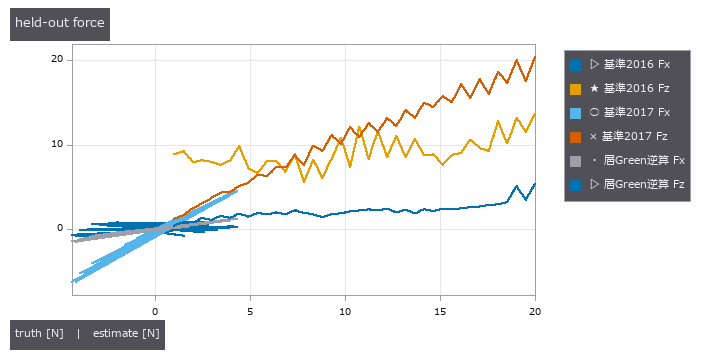
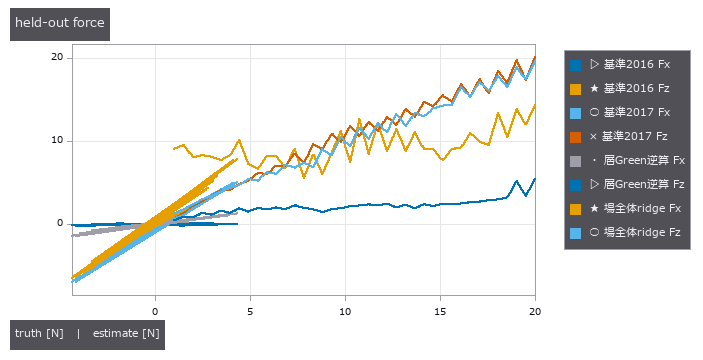
Add full-field ridge FingerVision estimator

diff --git a/examples/poc_fingervision_benchmark.py b/examples/poc_fingervision_benchmark.py
@@ -1,5 +1,5 @@
 # Copyright (c) 2026 Kazufumi Furuse. Licensed under the Apache License, Version 2.0 (see LICENSE).
-"""FingerVision 公開式2版とGreen関数逆算を、独立した物理合成像で比較する。
+"""FingerVision 公開式2版、Green逆算、場全体ridgeを独立した物理合成像で比較する。
 
 外部: Yamaguchi & Atkeson (Humanoids 2016/2017) の式、Johnson (1985)
 §3, §7.2、既存 tacsim/tacslip。自作: 4 mm XP-565相当接着層の選択的
@@ -51,11 +51,17 @@ def physics_validation():
 
 def evaluate(full=False):
     t0=time.perf_counter(); ref=F.synthesize(F.Truth((0,0,0)),seed=1)
-    # 較正: 中心、半径12 mm、2--14 N。評価は半径9/16 mm、偏心、1--20 N。
+    # 較正: 半径11/13 mm、複数偏心、2--14 N。評価は未見の半径9/16 mm、
+    # 未見の偏心(3,-2)と力範囲1--20 N。全手法へ同じ較正像を渡す。
     cal=[]
-    for i,p in enumerate(np.linspace(2,14,14)):
-        for fx,fy in ((0,0),(.18*p,0),(0,-.14*p)):
-            tr=F.Truth((fx,fy,p)); cal.append((F.synthesize(tr,seed=10+i),tr.force_N,0.))
+    cal_pos=((-2.,0.),(2.,1.),(0.,-2.))
+    for i,p in enumerate(np.linspace(2,14,10)):
+        for j,(fx,fy) in enumerate(((0,0),(.18*p,0),(-.18*p,0),(0,.14*p),(0,-.14*p))):
+            tr=F.Truth((fx,fy,p),contact_xy_mm=cal_pos[(i+j)%3],indenter_radius_mm=11 if (i+j)%2 else 13)
+            cal.append((F.synthesize(tr,seed=10+i*5+j),tr.force_N,0.))
+    for i,tau in enumerate(np.linspace(-.003,.003,6)):
+        tr=F.Truth((0,0,8),torque_Nm=float(tau),contact_xy_mm=cal_pos[i%3],indenter_radius_mm=12)
+        cal.append((F.synthesize(tr,seed=1000+i),tr.force_N,tr.torque_Nm))
     c=F.calibrate(cal,ref)
     slip_cal=[]
     for case in range(6):
@@ -68,7 +74,8 @@ def evaluate(full=False):
     for i,p in enumerate(np.linspace(1,20,40 if full else 16)):
         tr=F.Truth(((-1)**i*.22*p, .16*p, p),contact_xy_mm=(3,-2),indenter_radius_mm=9 if i%2 else 16)
         ev.append((tr,F.synthesize(tr,seed=100+i)))
-    methods=(F.read_baseline2016,F.read_baseline2017,F.read_tactile); names=("基準2016","基準2017","層Green逆算")
+    methods=(F.read_baseline2016,F.read_baseline2017,F.read_tactile,F.read_field_ridge)
+    names=("基準2016","基準2017","層Green逆算","場全体ridge")
     def force_set(rows):
         truth=np.asarray([x[1] for x in rows]); pred=[]
         for fn in methods:
@@ -80,13 +87,20 @@ def evaluate(full=False):
     for name,pc,pe in zip(names,cal_pred,ev_pred):
         force[name]={"cal_rmse":[_score_rmse(pc[:,j],cal_truth[:,j]) for j in range(3)],"cal_r2":[r2(cal_truth[:,j],pc[:,j]) for j in range(3)],
                      "eval_rmse":[_score_rmse(pe[:,j],ev_truth[:,j]) for j in range(3)],"eval_r2":[r2(ev_truth[:,j],pe[:,j]) for j in range(3)]}
+    torque_truth=np.linspace(-.003,.003,len(ev)); torque={"基準2016":"—","基準2017":"—"}
+    for name,fn in zip(names[2:],methods[2:]):
+        pred=[]
+        for i,(tr,_) in enumerate(ev):
+            tt=F.Truth(tr.force_N,torque_Nm=float(torque_truth[i]),contact_xy_mm=tr.contact_xy_mm,indenter_radius_mm=tr.indenter_radius_mm)
+            pred.append(fn(F.synthesize(tt,seed=1500+i),clone(c))["torque"])
+        torque[name]={"rmse_Nm":_score_rmse(pred,torque_truth),"r2":r2(torque_truth,pred)}
     conditions=(("明","bright",1,False,False),("黒","black",1,False,False),("肌色","skin",1,False,False),
                 ("背景移動","bright",1,False,True),("暗所","bright",.10,False,False),("非滑り変形","bright",1,True,False))
-    cases=25 if full else 4; slip_rows=[]; delays=[[] for _ in methods]; leads=[]
+    cases=25 if full else 4; slip_rows=[]; delays=[[] for _ in methods]; leads=[[],[]]
     for ci,(label,color,bright,deform,moving) in enumerate(conditions):
         yy=[[] for _ in methods]; pp=[[] for _ in methods]
         for case in range(cases):
-            states=[clone(c) for _ in methods]; first=[None]*3; precursor=None
+            states=[clone(c) for _ in methods]; first=[None]*len(methods); precursor=[None,None]
             P=6+8*(case/max(cases-1,1)); onset=4
             for k,q in enumerate(np.linspace(0,1.25*F.MU*P,8)):
                 slip=(q>=F.MU*P) and not deform
@@ -95,15 +109,30 @@ def evaluate(full=False):
                 for m,fn in enumerate(methods):
                     out=fn(im,states[m]); yy[m].append(slip); pp[m].append(out["slip"])
                     if out["slip"] and first[m] is None: first[m]=k
-                    if m==2 and out.get("slip_precursor") and precursor is None: precursor=k
-            for m in range(3): delays[m].append(1000*(first[m]-onset)/F.FPS if first[m] is not None else math.nan)
-            if precursor is not None: leads.append(1000*(onset-precursor)/F.FPS)
-        vals=[f1_ci(yy[m],pp[m]) for m in range(3)]; slip_rows.append((label,*vals))
+                    if m>=2 and out.get("slip_precursor") and precursor[m-2] is None: precursor[m-2]=k
+            for m in range(len(methods)): delays[m].append(1000*(first[m]-onset)/F.FPS if first[m] is not None else math.nan)
+            for m,x in enumerate(precursor):
+                if x is not None: leads[m].append(1000*(onset-x)/F.FPS)
+        vals=[f1_ci(yy[m],pp[m]) for m in range(len(methods))]; slip_rows.append((label,*vals))
     # 回転は画像の同じ組を三手法へ渡す。
     angles=np.linspace(-10,10,11); rot=[None,None]
-    for fn in methods[2:]:
+    for fn in methods[2:3]:
         pred=[fn(F.synthesize(F.Truth((0,0,8),angle_deg=float(a)),seed=900+i),clone(c))["angle_deg"] for i,a in enumerate(angles)]
         rot.append(_score_rmse(pred,angles))
+    rot.append(None)  # ridge はトルクを出すが物体角度は出さない
+    # 黒ビーズと背景のMichelson contrastを直接測り、追跡成立境界を掃引する。
+    contrast=[]
+    for color in ("bright","skin","black"):
+        for bright in np.linspace(.02,1,20):
+            im=F.synthesize(F.Truth((1,0,8)),color=color,brightness=float(bright),seed=77)
+            g=im.mean(2); hi=float(np.percentile(g,80)); lo=float(np.percentile(g,2))
+            con=(hi-lo)/max(hi+lo,1e-9); matched=F._track(im,c)["matched"]
+            contrast.append((color,float(bright),con,matched))
+    contrast_boundary={}
+    for color in ("bright","skin","black"):
+        good=[x[2] for x in contrast if x[0]==color and x[3]>=6]
+        bad=[x[2] for x in contrast if x[0]==color and x[3]<6]
+        contrast_boundary[color]=(min(good) if good else None,max(bad) if bad else None)
     physical,conv,theory_ratio=physics_validation()
     print("半空間比（nu, 層/半空間 横最大, 縦中心, 層横m, 層縦m）")
     for row in physical: print(row)
@@ -113,11 +142,20 @@ def evaluate(full=False):
     print("method       calibration                         evaluation")
     for n in names:
         x=force[n]; print(f"{n:10s} {x['cal_rmse']} / {x['cal_r2']}   {x['eval_rmse']} / {x['eval_r2']}")
+    print("ridge（較正内CVのみ）",c.ridge_cv_rmse,"選択",c.ridge_selected,"lambda",c.ridge_lambda)
+    for variant in ("raw","green-pca"):
+        pe=np.asarray([F.read_field_ridge(im,clone(c),variant)["force_N"] for _,im in ev])
+        print("ridge変種",variant,"評価RMSE",[_score_rmse(pe[:,j],ev_truth[:,j]) for j in range(3)])
+    print("トルク（評価RMSE N m / R2）",torque)
     print("滑り F1 [Wilson 95% CI]")
     for row in slip_rows: print(row[0],*[f"{v[0]:.3f}[{v[1]:.3f},{v[2]:.3f}]" for v in row[1:]])
-    print("遅れ中央値ms",[float(np.nanmedian(x)) if np.isfinite(x).any() else None for x in delays],"前兆先行ms",float(np.median(leads)) if leads else None)
+    print("遅れ中央値ms",[float(np.nanmedian(x)) if np.isfinite(x).any() else None for x in delays],
+          "前兆先行ms（固着域, 力比）",[float(np.median(x)) if x else None for x in leads])
     print("回転RMSE deg",{n:("—" if v is None else v) for n,v in zip(names,rot)})
-    print("負け条件: 層Green逆算は暗所/マーカー消失、ヒステリシス、剥離、未知のビーズ深さで不利。Taxim外部FEMデータなし。")
+    print("コントラスト境界（追跡可の最小, 不可の最大）",contrast_boundary)
+    print("黒い物・暗所: 黒ビーズと黒背景の輝度差が消えると、公開法も提案法も同じ追跡入力を失い原理的に読めない。")
+    print("改善案（白ビーズ・内部照明・縁取り）は光学模型を追加していないため未試験。")
+    print("負け条件: 提案法は暗所/マーカー消失、ヒステリシス、剥離、未知のビーズ深さで不利。Taxim外部FEMデータなし。")
     print("画像再現度: 実画像が無いためTaximのSSIM/PSNRとは比較しない。")
     if figs.enabled():
         figs.save_grid("fvbench_sensor_examples",[ref,ev[-1][1]],ncols=2,captions=["reference","unseen radius/offset"],caption="22 mm等距離魚眼、物理順方向。")
@@ -129,7 +167,15 @@ def evaluate(full=False):
         figs.save_table("fvbench_layer_physics",["nu","ur layer/half","uz layer/half","ur layer [um]","uz layer [um]"],
                         [[f"{x[0]:.3f}",f"{x[1]:.3f}",f"{x[2]:.3f}",f"{1e6*x[3]:.2f}",f"{1e6*x[4]:.2f}"] for x in physical],
                         title="4 mm bonded layer versus half-space",caption="1 N, a=6 mm; selective reduced integration Q4 FEM.")
-    return {"force":force,"slip":slip_rows,"delays":delays,"rotation":rot,"physics":physical,"convergence":conv,"theory_ratio":theory_ratio,"elapsed_s":time.perf_counter()-t0,"n_per_condition":cases*8}
+        figs.save("fvbench_contrast_boundary",figs.render_plot([(x[0],np.asarray([r[2] for r in contrast if r[0]==x[0]]),np.asarray([r[3] for r in contrast if r[0]==x[0]])) for x in (("bright",),("skin",),("black",))],xlabel="Michelson contrast",ylabel="matched markers",title="visibility boundary"),caption="6 markers未満では全変位場手法が推定不能。")
+        force_rows=[]
+        for split in ("cal","eval"):
+            for metric in ("rmse","r2"):
+                for axis_i,axis in enumerate(("Fx","Fy","Fz")):
+                    force_rows.append([f"{split} {axis} {metric}",*[f"{force[n][split+'_'+metric][axis_i]:.3f}" for n in names]])
+        figs.save_table("fvbench_force_metrics",["metric",*names],force_rows,
+                        title="Force calibration and held-out evaluation",caption="RMSE [N] / R2。ridgeのlambdaは較正内CVのみで選択。")
+    return {"force":force,"torque":torque,"slip":slip_rows,"delays":delays,"rotation":rot,"physics":physical,"convergence":conv,"theory_ratio":theory_ratio,"contrast_boundary":contrast_boundary,"elapsed_s":time.perf_counter()-t0,"n_per_condition":cases*8}
 
 
 if __name__=="__main__":

diff --git a/fvbench.py b/fvbench.py
@@ -54,6 +54,11 @@ class Calibration:
     slip_threshold2016: float = 900.0
     slip_threshold2017: float = 900.0
     proposed_ca_threshold: float = .12
+    ridge_models: dict = field(default_factory=dict)
+    ridge_selected: str = "raw"
+    ridge_lambda: float = math.nan
+    ridge_cv_rmse: dict = field(default_factory=dict)
+    ridge_mu_warning: float = .8
 
 
 def _project(xy_m: np.ndarray, z_m=0.0) -> np.ndarray:
@@ -169,6 +174,39 @@ def _per_marker(image, calib):
     return np.column_stack((u[:,0],np.asarray(ds),u[:,1])),tr
 
 
+def _field_features(image, calib):
+    """追跡点を35個の基準格子へ対応させた [dx,dy,ds] の固定長特徴。"""
+    pm,tr=_per_marker(image,calib); out=np.zeros((len(MARKERS),3))
+    if len(pm):
+        dist=np.linalg.norm(tr["p0"][:,None,:]-MARKERS[None,:,:],axis=2)
+        for i,j in enumerate(np.argmin(dist,axis=1)):
+            if dist[i,j] < calib.marker_pitch_px*.45:
+                out[j]=[pm[i,0],pm[i,2],pm[i,1]]
+    return out.ravel(),tr
+
+
+def _ridge_predict(model, feature):
+    x=(np.asarray(feature)-model["mean"])/model["scale"]
+    if model["basis"] is not None: x=x@model["basis"]
+    return np.r_[x,1.]@model["coef"]
+
+
+def read_field_ridge(image, calib, variant=None):
+    """場全体のridge推定。学習済み画像特徴だけを読み、真値経路を持たない。"""
+    feat,tr=_field_features(image,calib); key=variant or calib.ridge_selected
+    if key not in calib.ridge_models:
+        raise ValueError("field ridge is not calibrated")
+    y=_ridge_predict(calib.ridge_models[key],feat); force=y[:3]
+    ratio=np.linalg.norm(force[:2])/max(MU*max(force[2],0.),1e-9)
+    visible=tr.get("matched",0)>=6
+    return {"force_N":force,"torque":float(y[3]),"slip":bool(visible and ratio>=1.),
+            "slip_precursor":bool(visible and ratio>=calib.ridge_mu_warning),
+            "slip_dir":force[:2]/(np.linalg.norm(force[:2])+1e-12),
+            "proximity":float(np.mean(np.abs(image-calib.reference)))>.018,
+            "angle_deg":None,"matched":tr.get("matched",0),"load_ratio":float(ratio),
+            "method":"full-field-ridge-"+key}
+
+
 def _aggregate_signed(v):
     """論文2016: 各要素で絶対値80 percentile以下を平均（符号は保つ）。"""
     out=[]
@@ -264,8 +302,49 @@ def _fit_affine(x,y):
     return np.linalg.lstsq(A,y,rcond=None)[0]
 
 
+def _green_basis(rank=18):
+    """層Green関数の単位荷重応答から作る物理基底（評価値は不使用）。"""
+    cols=[]; xy=MARKER_WORLD
+    for src in MARKER_WORLD[::2]:
+        ex=layer.tangential_kernel(xy,src,[1.,0.],NU,E_GEL)
+        ey=layer.tangential_kernel(xy,src,[0.,1.],NU,E_GEL)
+        ez=layer.normal_kernel(xy,src,NU,1.,2.)
+        cols += [np.column_stack((ex[:,0],ex[:,1],np.zeros(len(xy)))).ravel(),
+                 np.column_stack((ey[:,0],ey[:,1],np.zeros(len(xy)))).ravel(),
+                 np.column_stack((ez[:,0],ez[:,1],ez[:,2])).ravel()]
+    u,_,_=np.linalg.svd(np.asarray(cols).T,full_matrices=False)
+    return u[:,:min(rank,u.shape[1])]
+
+
+def _fit_ridge_cv(X,Y,basis,lambdas,folds=5):
+    """決定論的CV。返値は較正集合だけから決まり、評価集合の引数を持たない。"""
+    X=np.asarray(X,float); Y=np.asarray(Y,float); n=len(X)
+    # 連続する同一法線荷重（標準較正は接線5方向）を同じfoldへ置く。
+    if n < 10:
+        fold=np.arange(n)%min(folds,n)
+    else:
+        group=5 if n >= 50 else 3
+        fold=(np.arange(n)//group)%min(folds,max(2,n//group))
+    scores=[]
+    for lam in lambdas:
+        pred=np.zeros_like(Y)
+        for k in range(fold.max()+1):
+            va=fold==k; tr=~va; mu=X[tr].mean(0); sc=X[tr].std(0); sc[sc<1e-8]=1.
+            a=(X[tr]-mu)/sc; b=(X[va]-mu)/sc
+            if basis is not None: a=a@basis; b=b@basis
+            aa=np.column_stack((a,np.ones(len(a)))); reg=np.eye(aa.shape[1]); reg[-1,-1]=0
+            w=np.linalg.solve(aa.T@aa+lam*reg,aa.T@Y[tr]); pred[va]=np.column_stack((b,np.ones(len(b))))@w
+        scores.append(float(np.sqrt(np.mean((pred-Y)**2))))
+    lam=float(lambdas[int(np.argmin(scores))]); mu=X.mean(0); sc=X.std(0); sc[sc<1e-8]=1.
+    a=(X-mu)/sc
+    if basis is not None: a=a@basis
+    aa=np.column_stack((a,np.ones(len(a)))); reg=np.eye(aa.shape[1]); reg[-1,-1]=0
+    w=np.linalg.solve(aa.T@aa+lam*reg,aa.T@Y)
+    return {"mean":mu,"scale":sc,"basis":basis,"coef":w,"lambda":lam,"cv_rmse":min(scores)}
+
+
 def calibrate(samples, reference):
-    """同一較正集合で2016/2017を切片付き最小二乗。提案法には係数を渡さない。"""
+    """全手法を同一較正集合で学習。ridge のλ選択も較正内CVだけで行う。"""
     c=Calibration(np.asarray(reference),_marker_map(reference))
     try:
         import cv2
@@ -274,13 +353,26 @@ def calibrate(samples, reference):
         c.hs_hist=cv2.calcHist([hsv],[0,1],mask,[100,10],[0,180,0,256]); cv2.normalize(c.hs_hist,c.hs_hist,0,255,cv2.NORM_MINMAX)
     except (ImportError,AttributeError):
         c.use_cv2=False
-    f16=[]; f17=[]; truth=[]
-    for im,force,_ in samples:
+    f16=[]; f17=[]; fields=[]; truth=[]
+    for im,force,torque in samples:
         pm,_=_per_marker(im,c); f16.append(_aggregate_signed(pm))
-        f17.append([pm[:,0].mean(),np.hypot(pm[:,0],pm[:,2]).mean(),pm[:,2].mean()]); truth.append([force[0],force[2],force[1]])
+        f17.append([pm[:,0].mean(),np.hypot(pm[:,0],pm[:,2]).mean(),pm[:,2].mean()]); fields.append(_field_features(im,c)[0])
+        truth.append([force[0],force[2],force[1]])
     f16=np.asarray(f16); f17=np.asarray(f17); truth=np.asarray(truth)
     c.coef2016=np.column_stack([_fit_affine(f16[:,i],truth[:,i]) for i in range(3)])
     c.coef2017=np.column_stack([_fit_affine(f17[:,i],truth[:,i]) for i in range(3)])
+    target=np.asarray([[*force,float(torque)] for _,force,torque in samples])
+    lambdas=np.logspace(-5,4,15); raw=_fit_ridge_cv(fields,target,None,lambdas)
+    # Green基底は物理変位の単位が異なるため、特徴標準化後に直交化し直す。
+    gb=_green_basis()
+    # Green応答はraw特徴空間の基底。ridge入力と同じ標準化座標へ写す。
+    field_scale=np.asarray(fields).std(0); field_scale[field_scale<1e-8]=1.
+    gb=np.linalg.qr(gb/field_scale[:,None])[0]
+    physical=_fit_ridge_cv(fields,target,gb,lambdas)
+    c.ridge_models={"raw":raw,"green-pca":physical}
+    c.ridge_cv_rmse={k:v["cv_rmse"] for k,v in c.ridge_models.items()}
+    c.ridge_selected=min(c.ridge_cv_rmse,key=c.ridge_cv_rmse.get)
+    c.ridge_lambda=c.ridge_models[c.ridge_selected]["lambda"]
     return c
 
 

diff --git a/tests/test_fvbench.py b/tests/test_fvbench.py
@@ -80,3 +80,28 @@ def test_fixed_seed_is_repeatable_and_dark_failure_is_exposed():
     c, _ = _calib()
     dark = F.synthesize(t, brightness=0.025, color="black", seed=8)
     assert F.read_tactile(dark, c)["matched"] < 6
+
+
+def test_field_ridge_uses_fixed_full_field_and_calibration_only_cv():
+    c, _ = _calib()
+    assert set(c.ridge_models) == {"raw", "green-pca"}
+    assert c.ridge_selected in c.ridge_models
+    assert np.isfinite(c.ridge_lambda) and c.ridge_lambda > 0
+    # 評価集合を受け取る経路自体がないことを門にする。
+    assert set(inspect.signature(F._fit_ridge_cv).parameters) == {
+        "X", "Y", "basis", "lambdas", "folds"
+    }
+    im = F.synthesize(F.Truth((1.5, .5, 9), torque_Nm=.001), seed=91)
+    feat, _ = F._field_features(im, c)
+    assert feat.shape == (len(F.MARKERS) * 3,)
+    for variant in ("raw", "green-pca"):
+        out = F.read_field_ridge(im, c, variant)
+        assert np.asarray(out["force_N"]).shape == (3,)
+        assert np.isfinite([*out["force_N"], out["torque"], out["load_ratio"]]).all()
+
+
+def test_black_dark_visibility_failure_is_shared_by_field_methods():
+    c, _ = _calib()
+    dark = F.synthesize(F.Truth((1, 0, 8)), brightness=.025, color="black", seed=92)
+    assert F.read_field_ridge(dark, c)["matched"] < 6
+    assert F.read_tactile(dark, c)["matched"] < 6
